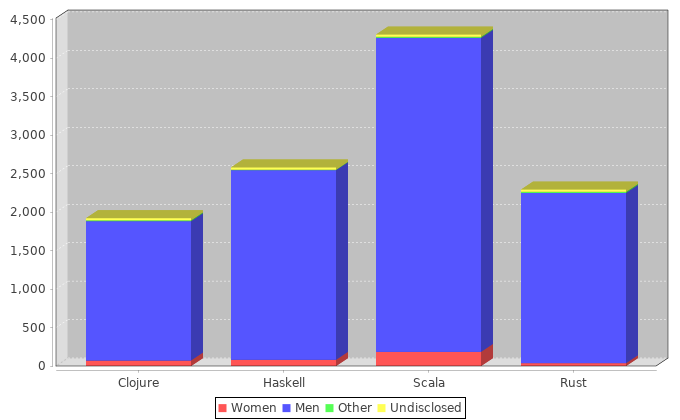
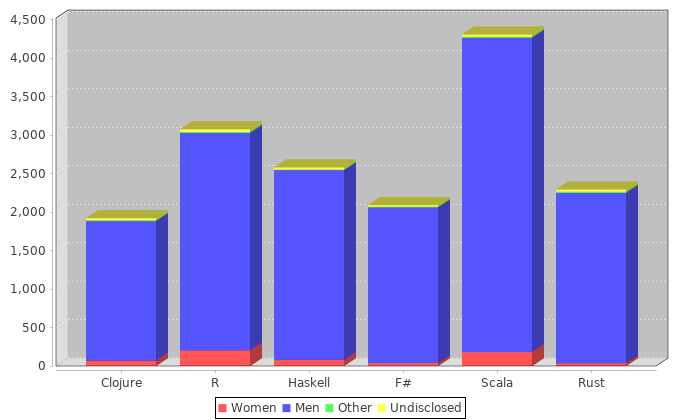
update charts and readme

diff --git a/README.md b/README.md
@@ -8,19 +8,13 @@ This is just a basic analysis of Stack Overflow survey data that plots things I 
 
 ### Language Usage
 
-The first thing I wanted to do was chart the gender distribution inside each programming language. This is just the raw headcount.
+The first thing I wanted to do was chart the gender distribution inside each programming language. This is just the raw headcount. I wanted to measure interest not just usage, so I have taken from both tech_want and tech_do columns for this data
 ![Chart](./charts/languageGenderDistribution.png)
 
-Raw Headcount is fine but I wanted to see which genders made up which portion of each language community, so here is a graph by percentage. I have to say that the headcount for languages may be fairly low so those percentages are best taken with a grain of salt.
-![Chart](./charts/languageGenderPercentageDistribution.png)
+Here is another showing functional languages.These sample from a much smaller pool
+![Chart](./charts/functionalLanguageGenderDistribution.png)
 
 
-### Operating System Usage
-Here I have done the same thing with the usage of operating systems
-![Chart](./charts/osGenderDistribution.png)
-
-And here are the percentages represented in a graph
-![Chart](./charts/osGenderPercentageDistribution.png)
 
 ## Usage
 
